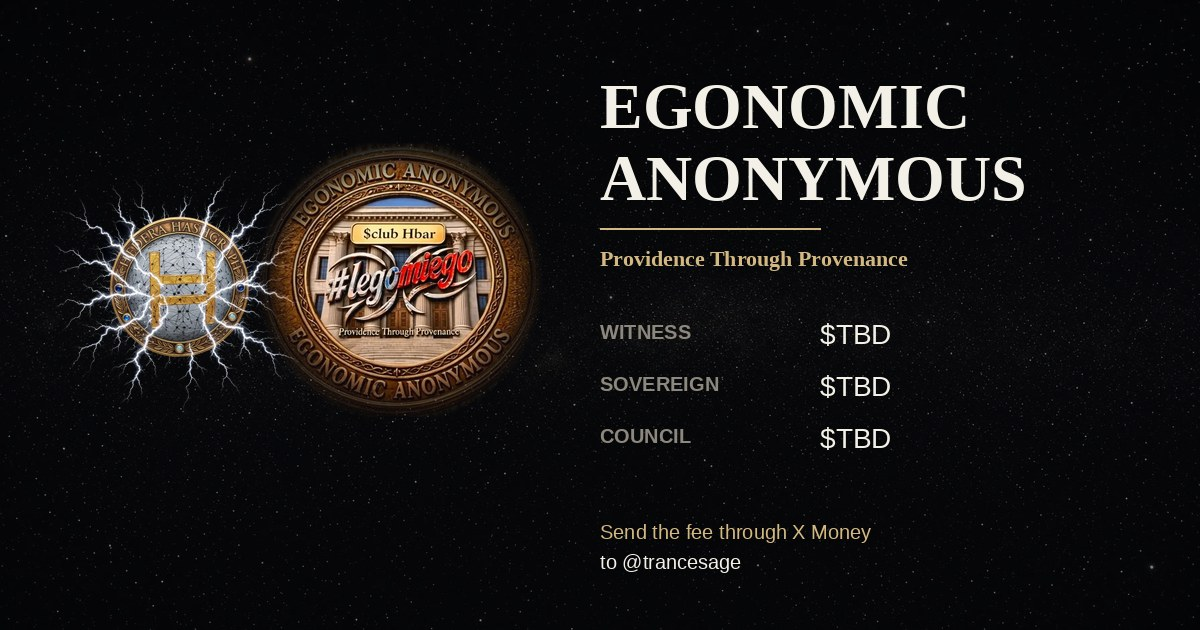
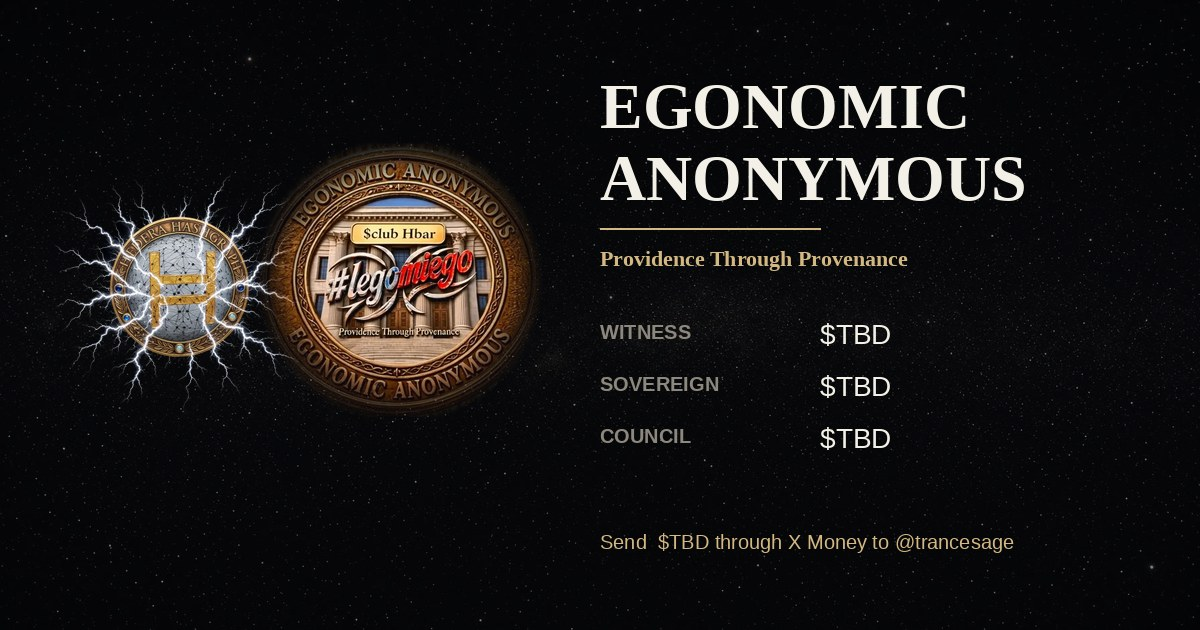
Put a space before the dollar in the send line.

Changed region(s): [[0.4933, 0.8143, 0.8633, 0.9048]]

diff --git a/src/routes/index.tsx b/src/routes/index.tsx
@@ -477,7 +477,7 @@ function Tiers() {
         <Eyebrow>The settlement</Eyebrow>
         <h2 className="mt-3 font-display text-4xl sm:text-5xl">Fees.</h2>
         <p className="mt-5 max-w-2xl text-muted">
-          A season is a cycle of ninety days. Send the fee through X Money to @{X_HANDLE}.
+          A season is a cycle of ninety days. Send{"\u00A0\u00A0"}$TBD through X Money to @{X_HANDLE}.
         </p>
         <div className="mt-8 max-w-md text-sm">
           <div className="grid grid-cols-2 gap-3 border-b border-border pb-2 font-mono text-xs tracking-wide text-subtle uppercase">
@@ -526,7 +526,7 @@ function Tiers() {
                   rel="noreferrer"
                   className="inline-flex rounded-full bg-primary px-4 py-2 text-sm font-medium text-primary-fg"
                 >
-                  Pay {tier.fee} with X Money
+                  Send{"\u00A0\u00A0"}{tier.fee} with X Money
                 </a>
                 <a
                   href="#ledger"
@@ -539,7 +539,7 @@ function Tiers() {
           ))}
         </div>
         <p className="mt-6 max-w-2xl text-sm text-fg">
-          Send the fee through X Money to @{X_HANDLE}.
+          Send{"\u00A0\u00A0"}$TBD through X Money to @{X_HANDLE}.
         </p>
         <p className="mt-4 font-mono text-xs text-subtle">
           Hedera Token Service · $Club Hbar · {TOKEN} ·{" "}
@@ -791,7 +791,7 @@ function LedgerForm() {
               </div>
             ))}
           </div>
-          <p className="mt-4 text-sm text-fg">Send the fee through X Money to @{X_HANDLE}.</p>
+          <p className="mt-4 text-sm text-fg">Send{"\u00A0\u00A0"}$TBD through X Money to @{X_HANDLE}.</p>
         </div>
         {saved ? (
           <Receipt

diff --git a/src/routes/__root.tsx b/src/routes/__root.tsx
@@ -5,7 +5,7 @@ import appCss from "../styles.css?url";
 
 const APP_NAME = "Egonomic Anonymous";
 const APP_DESCRIPTION =
-  "Witness $TBD. Sovereign $TBD. Council $TBD. Send the fee through X Money to @trancesage.";
+  "Witness $TBD. Sovereign $TBD. Council $TBD. Send  $TBD through X Money to @trancesage.";
 
 export const Route = createRootRoute({
   head: () => ({
